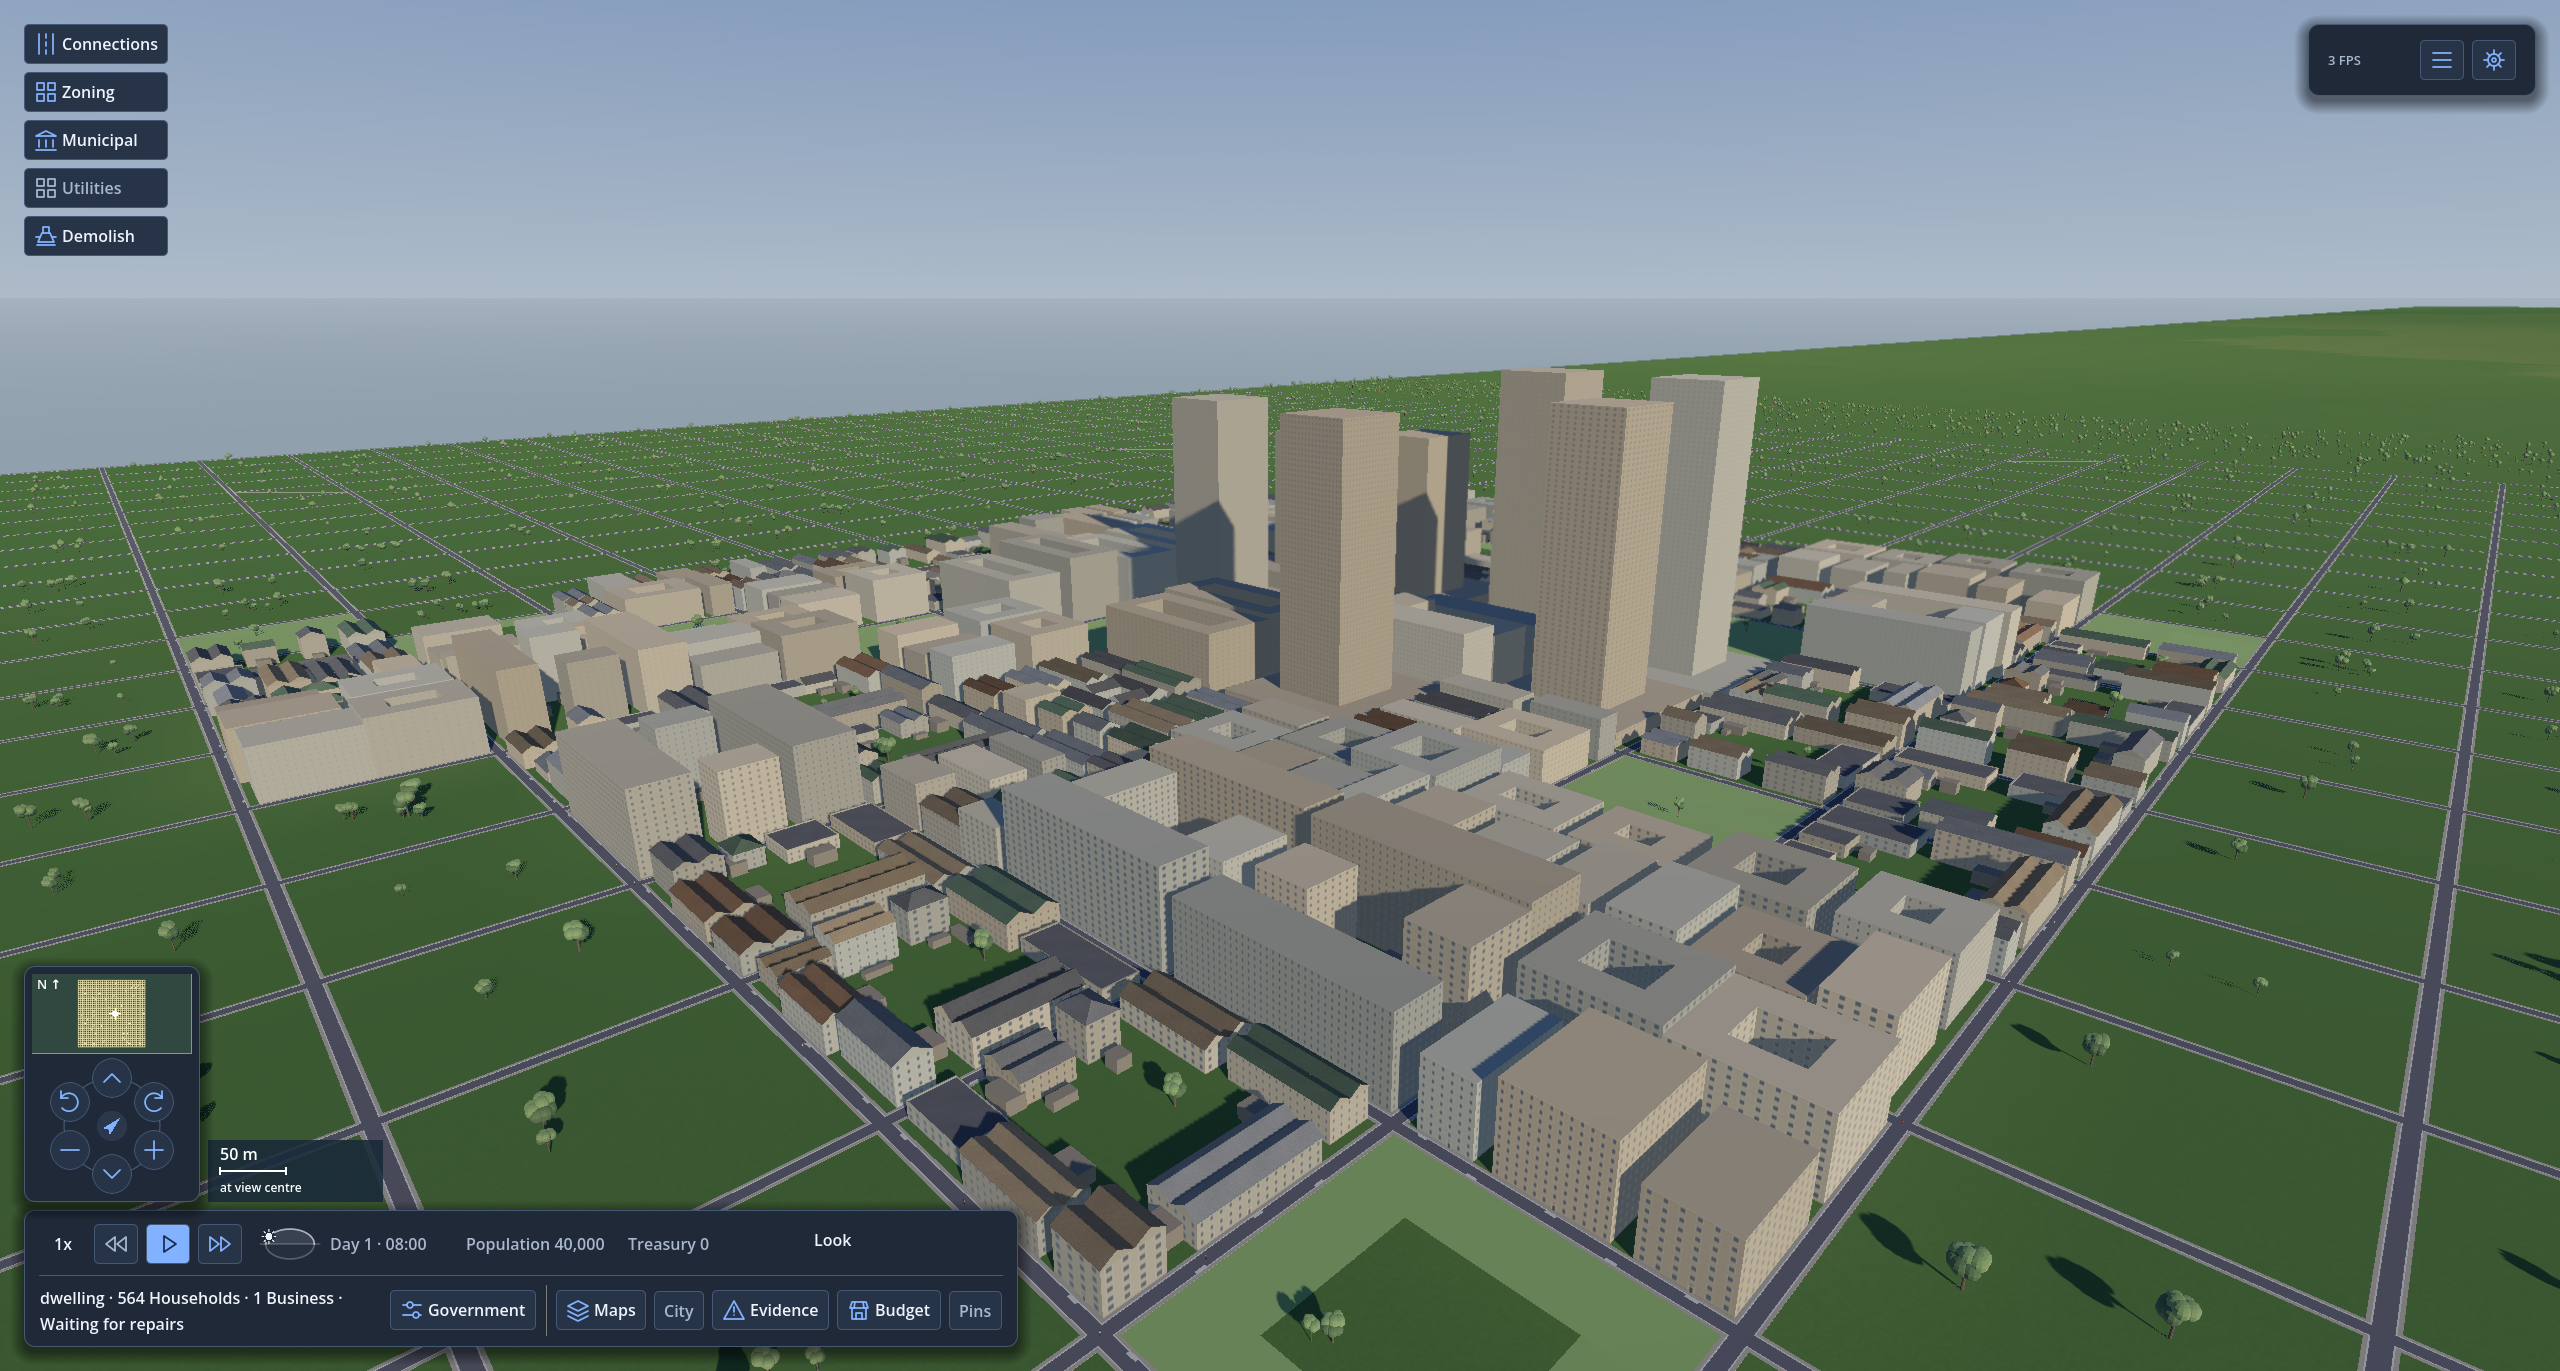
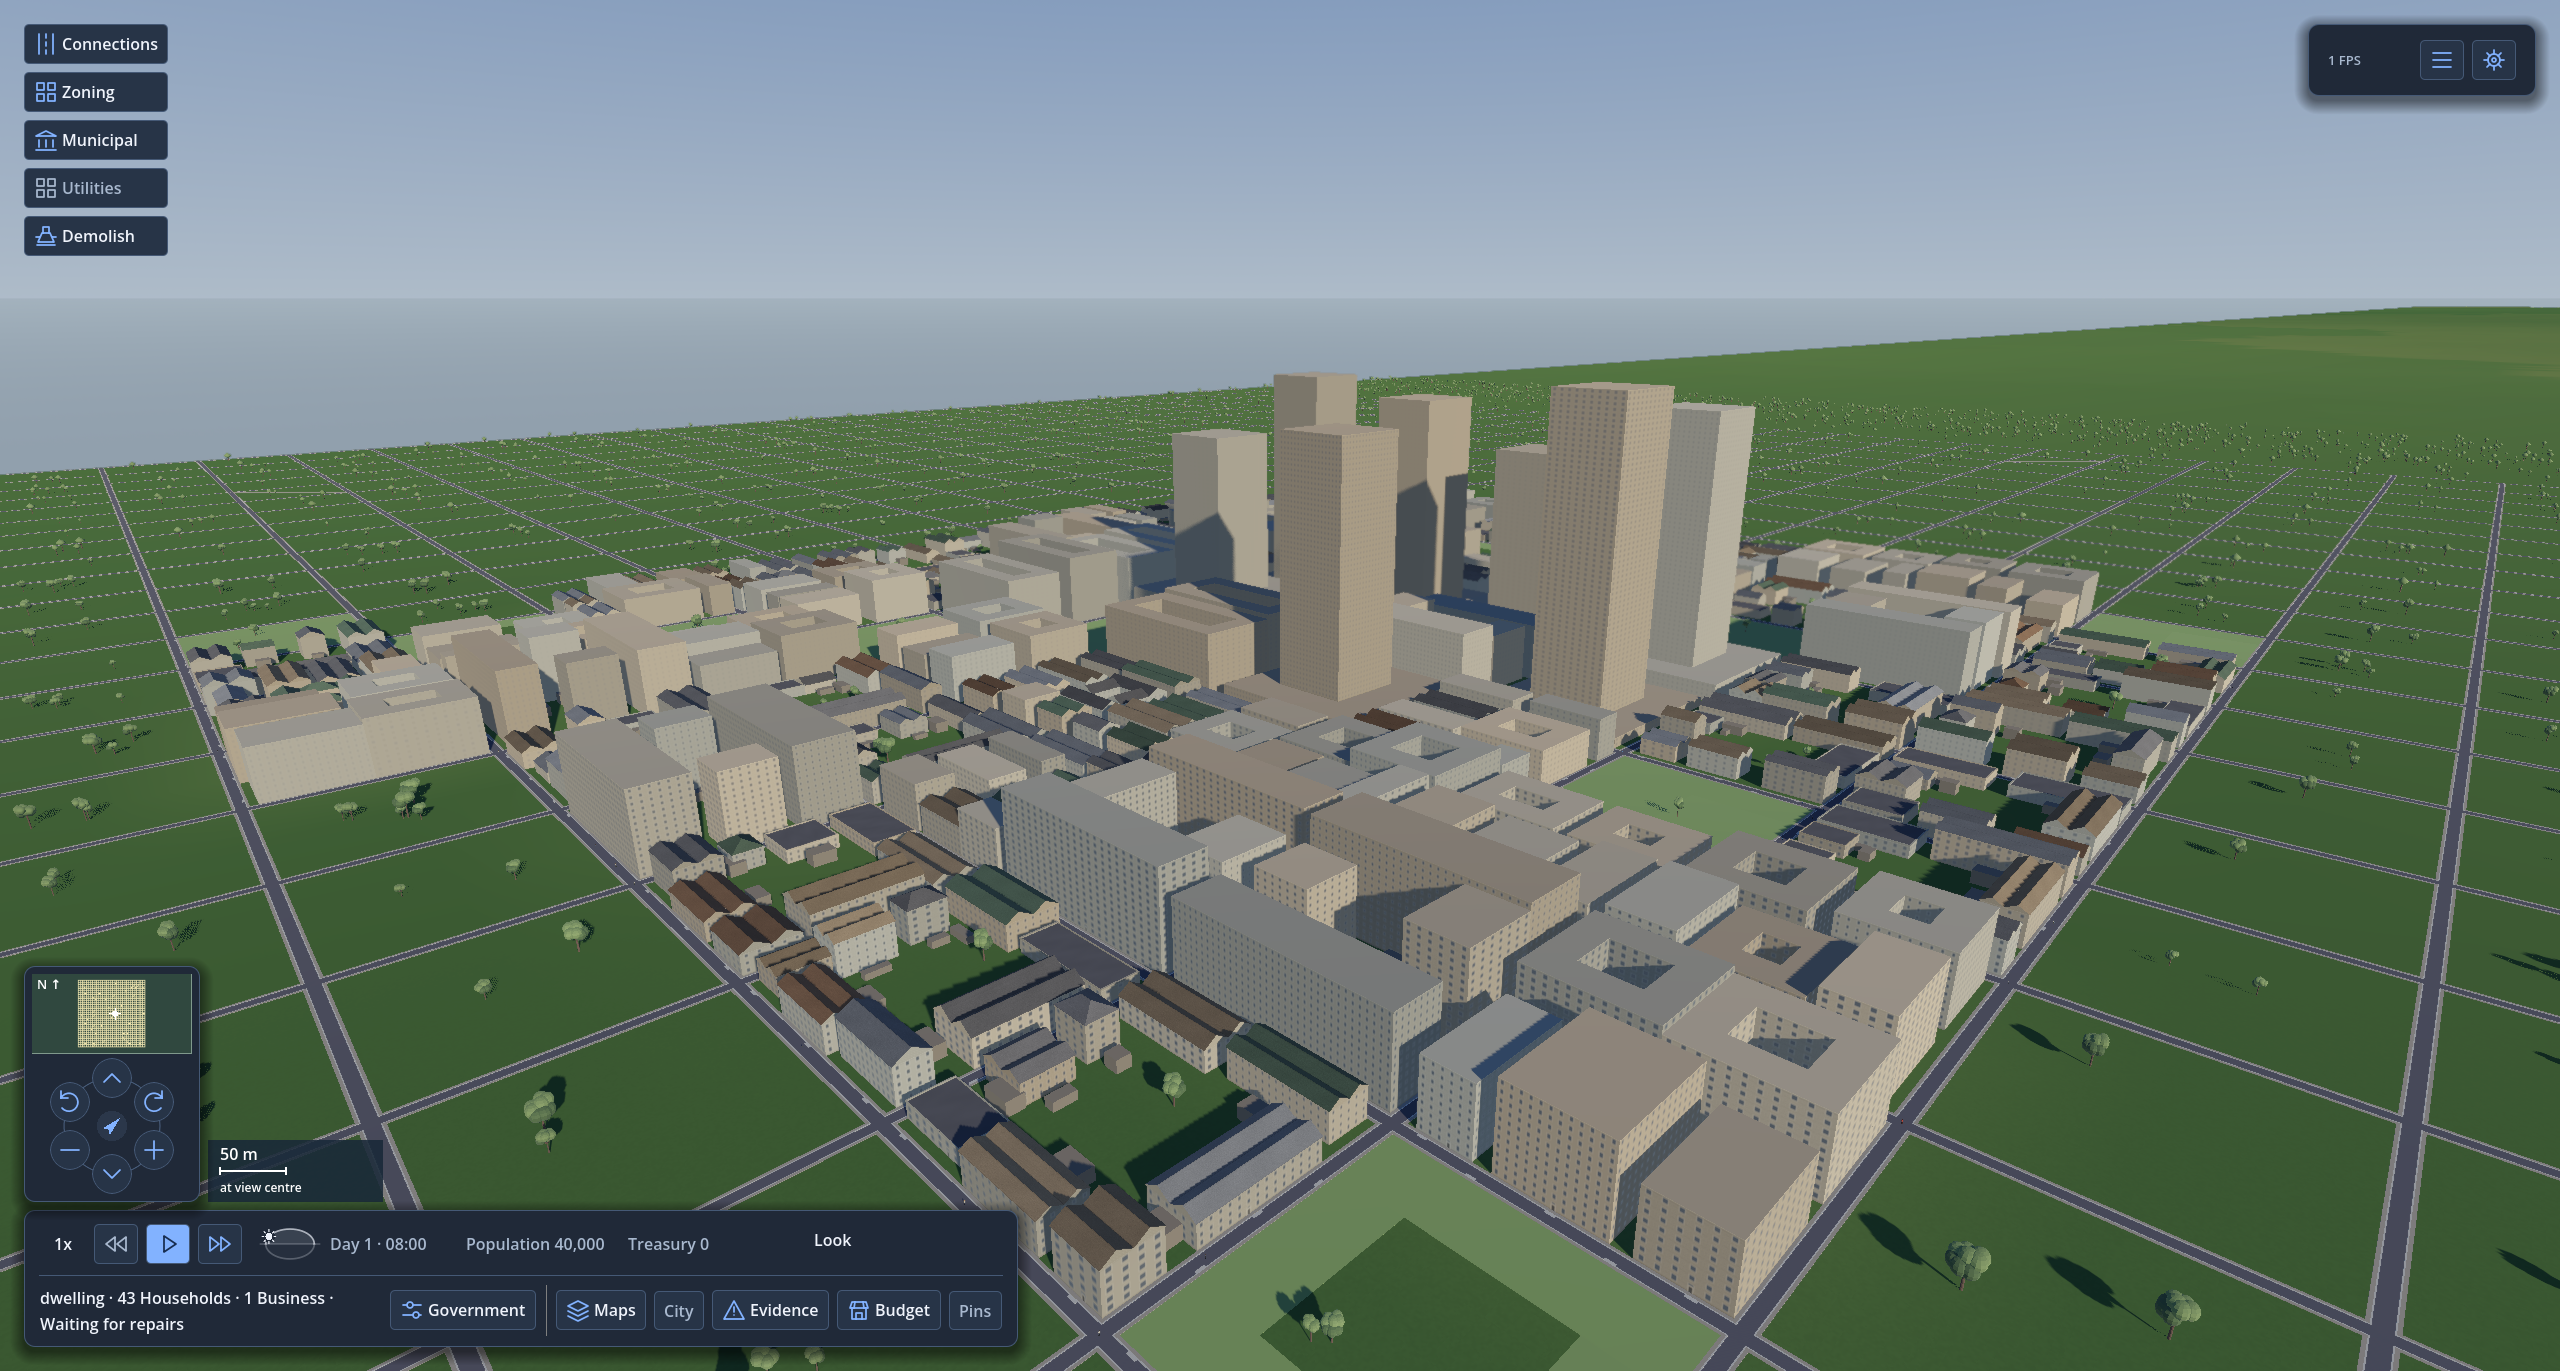
Re-shoot the tower captures on main and record what the row still lacks
The podium draw now uses PurposeTag 66, because main took 62 to 65, so
each Tower's podium height moved. The five shell captures are re-shot on
platted.toml at 40,000 Citizens; all seven Towers still draw as bodies.

The board row now names the remaining work: the 5- to 17-storey
perimeter, back-to-back, courtyard and slab blocks still fall to box.

diff --git a/plans/0000-board.md b/plans/0000-board.md
@@ -107,7 +107,7 @@ all listed facilities are missing. Select and prioritise them alongside city sys
 | Procedural Building generator | Unclaimed / design; [session](../research/procedural-buildings/SESSION.md), [findings](../research/procedural-buildings/REPORT.md), [adr/0173](../docs/adr/0173-a-building-is-drawn-realistically-at-every-distance-from-its-own-facts.md) | The four REPORT §3 measurements are taken ([evidence](evidence/procedural-buildings/README.md)): shell geometry is cheap, but the whole-city opening camera runs at 12.9 fps with boxes alone, because it issues 32,184 chunk draw calls. 1024 m chunks reach 67 fps there and speed up every other view ([optimisation notes](../research/procedural-buildings/optimizations.md) #3), so 1024 m is now the default. A moving city holds 64–65 fps at the opening camera at that size. The first test street exists as monochrome Blender blockouts of pass 03's five bodies and the walk-up apartments alternative at 3.5 m storeys (`scripts/art/review.sh test-street`). The monochrome review passed on 2026-09-24 and kept 3.5 m storeys everywhere. The bodies now carry CC0 wall and roof materials at true scale, and a pitched roof is at least 18°. The reroofed rowhouses, repaired corner shopfront and solar office-warehouse passed review on 2026-09-24. Step 5 put an exact office-warehouse and a two-unit apartments study on Buildings 1 and 3 of the shopping fixture (`scripts/art/review.sh exact-bodies`). Both bodies ignore the city's paint and every overlay wash, and the office-warehouse facade lands on a dwelling ([evidence](evidence/procedural-buildings/README.md#exact-game-bodies-in-the-live-city-exact-bodies)). Overlaps the modular kit row above, which this may absorb. |
 | Moving-camera and lighting acceptance | Unclaimed / scoping; [0063](0063-the-visual-treatment-comparison.md#live-work-list) | Compare daylight/evening/night on one scene and path; inspect shimmer, transparency, shadows and transitions. Reproduce the unexplained night ground difference before treating it as a current defect; decide whether lit interiors justify night tracing. |
 | Appearance Family format and picking rule | Unclaimed / ready; [plan](appearance-families.md) | Style Preset TOML, reader, schema, weighted picker, headless coverage report and a `family` debug wash are built (PR #35). On `family-models`, a family's `[family.body]` generates its body at each Building's size; the office-warehouse is drawn and matches its Blender body. Corridor-apartment and rowhouse bodies are built on PR #42, with party walls and hipped block corners. On `body-wash`, bodies take overlays and a derelict tint, and all six test-street families have generated bodies. A body is re-placed when a neighbour is raised or removed. On `body-variation`, each Building draws a paint scheme from its family. Bodies draw from chunked layers within 500 m of the camera and as boxes in their family's colours beyond it, which holds the 1M-Citizen opening camera at box speed ([evidence](evidence/procedural-buildings/README.md#chunked-family-bodies)). Families dress wall and roof parts from the texture library in `src/Borough.Godot/assets/city/library/`, and the shell draws them; a paintable texture takes the family's paint and any other keeps its own colour. On `body-placement-thread`, turning bodies on takes 2.2 s, down from 4.3 s, and a wash change retints bodies rather than re-placing them, so the whole wash pass takes 0.35 s, down from 1.4 s ([evidence](evidence/procedural-buildings/README.md#placement-pass)). Next: author the rest of the families. Split out of the generator row. |
-| Tall-Building families | `tall-families` worktree / active; [appearance families](appearance-families.md), [0059](0059-the-tower.md) | Every test-street family admits at most 3 storeys, so the Buildings `rulesets/platted.toml` raises above that fall to the `box` fallback: perimeter and back-to-back blocks at 5 to 11 storeys, courtyards and slabs at 12 to 17, and towers at 62 to 65 (a 2-storey podium over the whole site and a half-width shaft) and its residential window pattern. Author two or three reference bodies in Blender first, for example a slab block, a residential tower and an office tower. Then add the vocabulary `FamilyBodyBuilder` lacks: a podium under a taller shaft, curtain wall or ribbon glazing with spandrel bands, setbacks, and a crown or plant screen. Dress them from the texture library (Concrete Panels, Facade 001 and 005, glass). Acceptance: families admitting tall `platted.toml` Buildings, matched to their Blender bodies, with a driven capture. Follows the body shader, whose macro variation matters most on large flat walls. |
+| Tall-Building families | `tall-families` worktree / active; [appearance families](appearance-families.md), [0059](0059-the-tower.md) | Every test-street family admits at most 3 storeys. On `tall-families`, four tower families (point, stepped point, L and H) draw `platted.toml`'s 45- to 64-storey Towers as bodies matched to their Blender references in `art/tall-families/`: a brick podium with shopfronts and a planted deck, banded, curtain-wall, ribbon and finned facades, and a louvered plant screen ([evidence](evidence/tall-families/)). Next: perimeter and back-to-back blocks at 5 to 11 storeys and courtyards and slabs at 12 to 17 still fall to the `box` fallback and its residential window pattern (70 of 77 Buildings at 200 Ticks). Author a slab-block reference body in Blender first, then families for those patterns, dressed from the texture library. An office tower waits on a Ruleset that raises tall `officeblock` Buildings. Acceptance: families admitting tall `platted.toml` Buildings, matched to their Blender bodies, with a driven capture. |
 | Information tools beyond decline | Unclaimed / scoping; [0064](0064-the-information-interface.md) | Finish missing subject navigation and empty-Lot Rule-predicate explanations; preserve the no-orphan-figures contract. Scope dashboards/graphs against meaningful underlying quantities; row 30 owns sustained-failure diagnosis. |
 | Trajectory notifications and persistent Pins | Unclaimed / design; [notification design](../docs/01-player-experience.md#notification-and-what-earns-one), [0064](0064-the-information-interface.md) | Scope crossover and sustained detection, bounded event history and clickable Evidence; define Pins for Citizens, places and metrics with save/load behaviour. A current-issues list alone does not provide either outcome. |
 | Interface finish and redundant visual cues | Unclaimed / design; [0064 rows 15/18](0064-the-information-interface.md#work-queue) | Finish spacing/type acceptance, panel motion with reduced-motion behaviour, and icon/shape/label coverage. Review both themes and enlarged text at the agreed desktop sizes; do not restore retired tiny-window acceptance requirements. |
